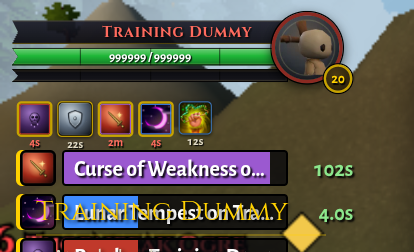
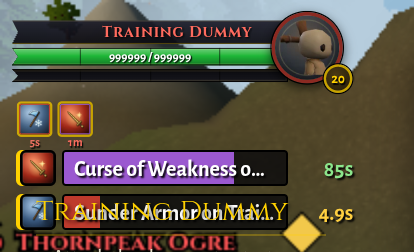
fix(ui): hang the target aura strip below the frame on touch, re-measure the party seat on the flip
Review round. The touch seat pins the target frame to the top edge, so the
above-frame default put every target debuff timer off screen on mobile
(the before plate shows none): the mobile sheet now hangs the strip below
unconditionally, since a device never sheds actionable information. The
party-below-target painter's invalidation key reads the body's side class,
or flipping the setting left the party frames on the pre-toggle bottom
until an unrelated input changed. Also: the main.ts ceiling re-pinned at
the exact count, the shot helpers seated after lowGraphicsSeed with a
valid seeded aura kind, the mobile shot leg proving the device default,
and the stale "strip hangs below" comments refreshed.

diff --git a/tests/party_below_target_core.test.ts b/tests/party_below_target_core.test.ts
@@ -134,6 +134,11 @@ function asHtmlEl(el: StubEl, root: StubEl): HTMLElement {
       documentElement: {
         getAttribute: (name: string) => root.attrs[name] ?? null,
       },
+      // The body class carries the target aura strip's side setting
+      // (targetAurasBelowFrame); the key reads it through getAttribute.
+      body: {
+        getAttribute: (name: string) => root.attrs[`body:${name}`] ?? null,
+      },
     },
   } as unknown as HTMLElement;
 }
@@ -177,7 +182,7 @@ describe('PartyBelowTargetPainter (measure gating + property write)', () => {
       },
       { innerWidth: 1600, innerHeight: 900 },
     );
-    return { painter, frame, debuffs, container, rows, moveWheel, moveZone, props };
+    return { painter, root, frame, debuffs, container, rows, moveWheel, moveZone, props };
   }
 
   it('measures once, writes the author-space bottom, and elides steady frames', () => {
@@ -206,6 +211,26 @@ describe('PartyBelowTargetPainter (measure gating + property write)', () => {
     debuffs.rect = { left: 900, right: 1120, bottom: 254 };
     expect(painter.update(true, 5, false)).toBe(false);
     expect(props.get(PARTY_BELOW_TARGET_BOTTOM_PROP)).toBe('initial');
+  });
+
+  // Flipping Target Auras Below the Frame moves the strip (and so the union
+  // bottom) without touching any element the key read before: the body class
+  // has to be a key input or the party frames keep the pre-toggle bottom until
+  // an unrelated input changes.
+  it('re-measures when the target aura strip side class flips on the body', () => {
+    const { painter, root, frame, debuffs, props } = build();
+    painter.update(true, 5, false);
+    expect(props.get(PARTY_BELOW_TARGET_BOTTOM_PROP)).toBe('199.0px');
+    // The strip hangs below now: same child count, same frame box, deeper union.
+    root.attrs['body:class'] = 'game-active target-auras-below-frame';
+    debuffs.rect.bottom = 240;
+    expect(painter.update(true, 5, false)).toBe(true);
+    expect(props.get(PARTY_BELOW_TARGET_BOTTOM_PROP)).toBe('240.0px');
+    expect(frame.rectReads).toBe(2);
+    // An unrelated body class is not a key input: no layout read for it.
+    root.attrs['body:class'] = 'game-active target-auras-below-frame something-else';
+    expect(painter.update(true, 5, false)).toBe(false);
+    expect(frame.rectReads).toBe(2);
   });
 
   it('writes the rows-bound sensors while pushing: pad top on mobile, viewport bottom on desktop', () => {

diff --git a/tests/totarget_frame_css.test.ts b/tests/totarget_frame_css.test.ts
@@ -58,11 +58,23 @@ describe('target-of-target frame sits BESIDE the target frame', () => {
   // below-frame strip back through their own setting (targetAurasBelowFrame,
   // src/ui/aura_bar_side.ts): keyed on the setting's body class, never on the
   // frame's move state, mirroring the player buff row's auraBarBelowFrame.
+  // NOTE: rule() matches the FIRST occurrence of the selector text, and the
+  // base '#target-frame > #tf-debuffs {' rule must stay authored ABOVE the
+  // body-class override, or the base pin above silently reads the override.
   it('hangs the strip below the frame only via body.target-auras-below-frame', () => {
     const below = rule(hudCss, 'body.target-auras-below-frame #target-frame > #tf-debuffs');
     expect(below).toContain('top: calc(100% + 8px);');
     expect(below).toContain('bottom: auto;');
     expect(hudCss).not.toMatch(/#target-frame\.tf-detached[^{]*#tf-debuffs/);
+  });
+
+  // The touch seat pins the target frame to the top edge, so an above-frame
+  // strip is off screen there: the mobile sheet hangs it below unconditionally
+  // (a device never sheds target debuff timers, a signal a player reacts to).
+  it('mobile hangs the strip below the frame regardless of the setting', () => {
+    const touch = rule(hudMobileCss, 'body.mobile-touch #target-frame > #tf-debuffs');
+    expect(touch).toContain('top: calc(100% + 8px);');
+    expect(touch).toContain('bottom: auto;');
   });
 
   it('reads portrait-left like every other unit frame (mirror overrides dropped)', () => {

diff --git a/src/ui/party_below_target_painter.ts b/src/ui/party_below_target_painter.ts
@@ -23,6 +23,7 @@
 // attribute, which our writes change once, so a value change costs exactly one
 // extra (idempotent, then elided) re-measure before the key settles.
 
+import { TARGET_AURAS_BELOW_CLASS } from './aura_bar_side';
 import type { PainterHostWriters } from './painter_host';
 import { belowTargetSlot, partyBelowTargetBottom, safeScale } from './party_below_target_core';
 import { getUiScale } from './ui_scale';
@@ -154,6 +155,13 @@ export class PartyBelowTargetPainter {
       this.win.innerWidth,
       this.win.innerHeight,
       debuffs?.childElementCount ?? 0,
+      // The strip's side (targetAurasBelowFrame) moves the union bottom without
+      // touching any other input, so the toggle must re-run the sensors.
+      (frame?.ownerDocument.body?.getAttribute('class') ?? '')
+        .split(' ')
+        .includes(TARGET_AURAS_BELOW_CLASS)
+        ? 1
+        : 0,
       frame?.getAttribute('class') ?? '',
       frame?.getAttribute('style') ?? '',
       container?.getAttribute('class') ?? '',

diff --git a/src/styles/hud.mobile.css b/src/styles/hud.mobile.css
@@ -3285,6 +3285,15 @@
     transform: scale(calc(var(--mobile-unit-frame-scale) * var(--mobile-chrome-scale, 1)));
     transform-origin: left top;
   }
+  /* The touch seat pins the target frame to the top edge, so the desktop
+     default of hanging the aura strip ABOVE the frame (hud.css, stock seat
+     over the action bar) puts every target debuff timer off screen here. The
+     strip hangs BELOW the frame on touch regardless of targetAurasBelowFrame:
+     actionable information a device may never shed. */
+  body.mobile-touch #target-frame > #tf-debuffs {
+    bottom: auto;
+    top: calc(100% + 8px);
+  }
   /* The desktop interface editor's frame-dimension settings
      (playerFrame/targetFrame Width/Height, movable_frame.ts 'dimensions'
      mode) stay desktop: this sheet hand-tunes the compact placements around

diff --git a/src/ui/party_below_target_core.ts b/src/ui/party_below_target_core.ts
@@ -25,8 +25,9 @@ export interface PartyBelowTargetInputs {
   /** The target frame's box, or null when the frame is hidden (no target). */
   frame: MeasuredBox | null;
   /** The #tf-debuffs strip box, or null when the strip is empty. The strip is
-   *  absolutely positioned below the frame, so the frame's own box never
-   *  includes it; the union of the two is the full target stack. */
+   *  absolutely positioned off the frame (above by default, below on touch or
+   *  with targetAurasBelowFrame), so the frame's own box never includes it;
+   *  the union of the two is the full target stack either way. */
   debuffs: MeasuredBox | null;
   /** The party frames container's horizontal span, in visual px. */
   party: { left: number; right: number } | null;

diff --git a/index.html b/index.html
@@ -278,7 +278,7 @@
       <!-- Target of Target (showTargetOfTarget option): the classic mini-frame showing
            who the current target is targeting. A #target-frame child that hides with the
            whole frame when there is no target; hud.css anchors it BESIDE the frame's
-           right edge (the below-frame band belongs to the #tf-debuffs strip) and
+           right edge (the below-frame band is kept for the #tf-debuffs strip) and
            compounds the target frame scale into its own mini zoom. Its own unit_frame
            painter toggles it flex/none when the target-of-target is known/unknown.
            Portrait + name + hp bar only (no resource/cast/debuffs). -->

diff --git a/tests/monolith_budget.test.ts b/tests/monolith_budget.test.ts
@@ -1341,7 +1341,7 @@ const MONOLITHS: MonolithRow[] = [
     // src/ui/aura_bar_side.ts (with the new targetAurasBelowFrame side case
     // riding the same helper), so the coordinator ends smaller (extract, then
     // lower).
-    ceiling: 11267,
+    ceiling: 11266,
     seam: 'a src/game/ or src/ui/ sibling module; main.ts is a firewall, not a home',
   },
   {
